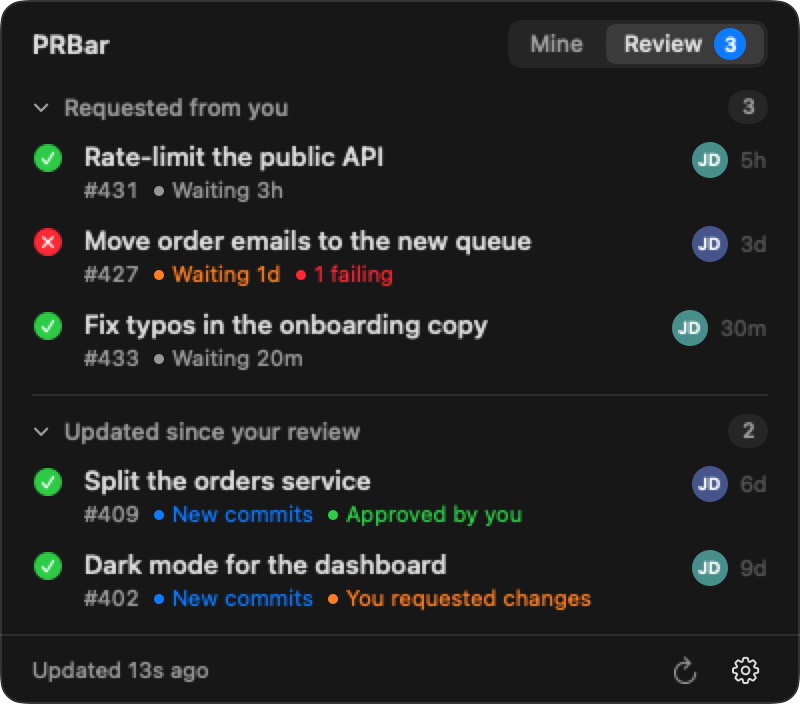
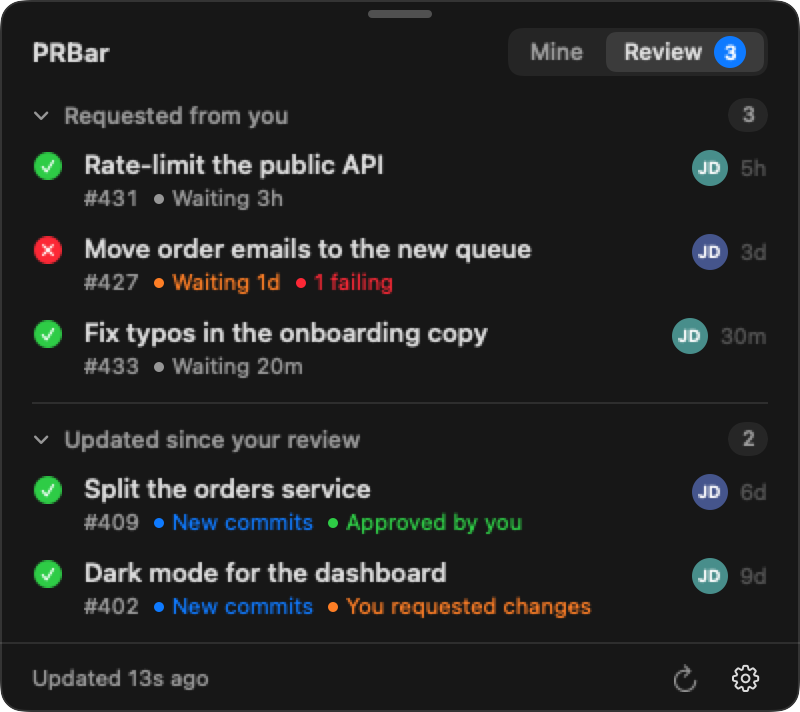
Move the panel by dragging its header
The header, marked by a grab bar, drags the panel; it keeps the new spot
while open and grows downward from there. The pointer is an open hand
over the header and a closed hand while dragging, using a tracking area
since cursor rects only apply while PRBar is the active app.

diff --git a/Sources/PRBar/FloatingPanel.swift b/Sources/PRBar/FloatingPanel.swift
@@ -35,6 +35,11 @@ final class FloatingPanel<Content: View>: NSPanel {
         sizeObservation = host.observe(\.preferredContentSize, options: [.initial, .new]) { [weak self] host, _ in
             DispatchQueue.main.async { self?.fit(to: host.preferredContentSize) }
         }
+        // Dragged by its header: keep the new spot, so resizing grows down from there.
+        observers.append(NotificationCenter.default.addObserver(forName: NSWindow.didMoveNotification, object: self, queue: .main) { [weak self] _ in
+            guard let self else { return }
+            self.topLeft = NSPoint(x: self.frame.minX, y: self.frame.maxY)
+        })
         observers.append(NotificationCenter.default.addObserver(forName: NSApplication.didResignActiveNotification, object: nil, queue: .main) { [weak self] _ in
             guard !Self.keepOpen else { return }
             self?.hide()
@@ -81,6 +86,41 @@ final class FloatingPanel<Content: View>: NSPanel {
         if let clickMonitor { NSEvent.removeMonitor(clickMonitor) }
         clickMonitor = nil
         orderOut(nil)
+    }
+}
+
+/// Put behind a view to drag the panel by it. Buttons on top of it keep their clicks.
+struct WindowDragArea: NSViewRepresentable {
+    func makeNSView(context: Context) -> NSView { DragView() }
+    func updateNSView(_ nsView: NSView, context: Context) {}
+
+    private final class DragView: NSView {
+        // The panel never activates PRBar, so the first click has to start the drag.
+        override func acceptsFirstMouse(for event: NSEvent?) -> Bool { true }
+
+        override func mouseDown(with event: NSEvent) {
+            NSCursor.closedHand.set()
+            window?.performDrag(with: event)
+            NSCursor.openHand.set()
+        }
+
+        // A tracking area rather than cursor rects: those only apply while PRBar is the active app,
+        // which it usually isn't while the panel is open.
+        override func updateTrackingAreas() {
+            super.updateTrackingAreas()
+            trackingAreas.forEach(removeTrackingArea)
+            addTrackingArea(NSTrackingArea(rect: .zero, options: [.mouseEnteredAndExited, .mouseMoved, .activeAlways, .inVisibleRect], owner: self))
+        }
+
+        override func mouseEntered(with event: NSEvent) { updateCursor(event) }
+        override func mouseMoved(with event: NSEvent) { updateCursor(event) }
+        override func mouseExited(with event: NSEvent) { NSCursor.arrow.set() }
+
+        /// An open hand where a press would drag; the arrow over buttons drawn on top, like Mine / Review.
+        private func updateCursor(_ event: NSEvent) {
+            let hit = window?.contentView?.hitTest(event.locationInWindow)
+            (hit === self ? NSCursor.openHand : NSCursor.arrow).set()
+        }
     }
 }
 

diff --git a/Sources/PRBar/PanelView.swift b/Sources/PRBar/PanelView.swift
@@ -47,8 +47,15 @@ struct PanelView: View {
             TabSwitch(tab: $tab, reviewCount: store.reviewRequested.count)
         }
         .padding(.horizontal, 16)
-        .padding(.top, 10)
+        .padding(.top, 14)
         .padding(.bottom, 2)
+        // A grab bar, so the header reads as the place to drag the panel from.
+        .overlay(alignment: .top) {
+            Capsule().fill(Color.secondary.opacity(0.45)).frame(width: 32, height: 4).padding(.top, 5)
+                .allowsHitTesting(false)  // let the press reach the drag area underneath
+        }
+        .background(WindowDragArea())
+        .help("Drag to move the panel")
     }
 
     // MARK: Tabs

diff --git a/README.md b/README.md
@@ -37,7 +37,7 @@ The **Chat** button on a PR opens the most recent agent chat that worked on it, 
 
 Finished chats come from Claude Code transcripts and Codex threads of the last 14 days. They're linked to a PR by the PR the session opened or linked, or by the ticket id in its worktree folder or title. The checked-out branch isn't used for finished chats, because in a shared checkout it only says what happened to be checked out.
 
-Clicking the icon opens a panel. Clicking a PR opens it on GitHub in the background, so the panel stays open and you can open several in a row. If a tab already shows that PR (or one of its pages, like Files changed), PRBar switches to that tab instead of opening another. This works in Chrome, Safari, Brave, Edge, Vivaldi and Arc (tabs in Arc's current space), and the first time macOS asks whether PRBar may control the browser. Other browsers, or a refused permission, get a new tab as before. Clicking an agent in the Agents section opens its chat the same way as the **Chat** button (see the table above). The panel closes on Esc or a click outside. To keep it open above other apps while you work, turn on **Keep Panel on Top** in the gear menu; it then closes only from the menu bar icon or Esc.
+Clicking the icon opens a panel. Clicking a PR opens it on GitHub in the background, so the panel stays open and you can open several in a row. If a tab already shows that PR (or one of its pages, like Files changed), PRBar switches to that tab instead of opening another. This works in Chrome, Safari, Brave, Edge, Vivaldi and Arc (tabs in Arc's current space), and the first time macOS asks whether PRBar may control the browser. Other browsers, or a refused permission, get a new tab as before. Clicking an agent in the Agents section opens its chat the same way as the **Chat** button (see the table above). The panel closes on Esc or a click outside. To keep it open above other apps while you work, turn on **Keep Panel on Top** in the gear menu; it then closes only from the menu bar icon or Esc. Drag the panel by its header (the grab bar and title) to move it; it stays there until it closes, then opens under the menu bar icon again.
 
 ## Data sources
 
